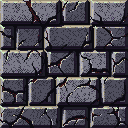
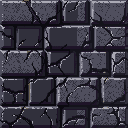
Art check free fixes: one tone for the four stone variants, lifted floor sprites with a pale rim for small dark items, cooler torches and warmer ambient

diff --git a/tools/art/gen_wall_decor.py b/tools/art/gen_wall_decor.py
@@ -21,6 +21,46 @@ VARIANTS = 4
 BAYER = [[0, 8, 2, 10], [12, 4, 14, 6], [3, 11, 1, 9], [15, 7, 13, 5]]
 
 
+ACCENTS = ("blood", "bruise", "curse", "moss", "slime")
+
+
+def lum(c):
+    return 0.2126 * c[0] + 0.7152 * c[1] + 0.0722 * c[2]
+
+
+def match_tone(im, base, keep_accents=0.04):
+    """Give `im` the colour distribution of `base` (stone_1's cold grey): rank every pixel by brightness and hand out the base's
+    colours in the same order, so the block structure stays and the tone, mortar and tint match. A few accent pixels (dried
+    blood, moss) stay as they were, at most `keep_accents` of the tile, so no variant is flat grey."""
+    px = im.load()
+    w, h = im.size
+    import json
+    names = {tuple(int(c["hex"][i:i + 2], 16) for i in (1, 3, 5)): c["name"]
+             for c in json.load(open(Path(__file__).parent / "palette.json"))["colors"]}
+    cells = [(lum(px[x, y][:3]), x, y) for y in range(h) for x in range(w)]
+    accent = []
+    plain = []
+    for item in cells:
+        _, x, y = item
+        name = names.get(px[x, y][:3], "")
+        (accent if name.startswith(ACCENTS) else plain).append(item)
+    # Keep only the strongest-contrast accents, up to the cap; the rest turn grey with the stone.
+    accent.sort(key=lambda t: t[0])
+    cap = int(keep_accents * w * h)
+    kept, melt = accent[:cap], accent[cap:]
+    plain += melt
+    plain.sort()
+    bp = base.load()
+    ramp = sorted((lum(bp[x, y][:3]), bp[x, y][:3]) for y in range(h) for x in range(w))
+    out = Image.new("RGBA", im.size, (0, 0, 0, 255))
+    op = out.load()
+    for i, (_, x, y) in enumerate(plain):
+        op[x, y] = (*ramp[int(i * (len(ramp) - 1) / max(1, len(plain) - 1))][1], 255)
+    for _, x, y in kept:
+        op[x, y] = px[x, y]
+    return out
+
+
 def stone_variants():
     src = PIECES / "walls"
     base = Image.open(src / "stone_1.png").convert("RGBA")
@@ -29,7 +69,7 @@ def stone_variants():
     for n in range(2, VARIANTS + 1):
         piece = src / f"stone_{n}.png"
         if piece.exists():
-            out.append(Image.open(piece).convert("RGBA"))
+            out.append(match_tone(Image.open(piece).convert("RGBA"), base))  # Same cold grey as stone 1.
         else:  # A stand-in: the first stone, turned and shifted.
             im = base.transpose(Image.FLIP_LEFT_RIGHT) if n % 2 == 0 else base
             out.append(shift(im, 40 * n, 24 * n))

diff --git a/tools/art/regrade_items.py b/tools/art/regrade_items.py
@@ -65,6 +65,34 @@ def outlined(img):
     return add_outline(img, PAL["ink"])
 
 
+# Floor sprites of the items that were hard to see on a dark floor (under about 2.3:1 at two tiles): their dark pixels are lifted
+# one step and the lit top-left edge gets a pale rim just inside the outline.
+LIFT_FLOOR = {"mace", "key", "darts", "spellbook", "dried_meat", "withered_apple", "holy_symbol", "war_hammer", "leather_armour"}
+LIFT = {"stone_800": "stone_700", "stone_700": "stone_500", "stone_500": "stone_300", "wood_700": "wood_500", "wood_500": "leather_400",
+        "rust_700": "rust_500", "rust_500": "rust_300", "moss_700": "moss_500", "soil_900": "wood_700", "bruise_700": "bruise_500",
+        "blood_700": "blood_500", "curse_700": "curse_500"}
+
+
+def lift_and_rim(img):
+    px = img.load()
+    w, h = img.size
+    table = {PAL[a]: PAL[b] for a, b in LIFT.items()}
+    ink = PAL["ink"]
+    for y in range(h):
+        for x in range(w):
+            r, g, b, a = px[x, y]
+            if a and (r, g, b) in table:
+                px[x, y] = (*table[(r, g, b)], a)
+    rim = PAL["bone_500"]
+    for y in range(1, h):
+        for x in range(1, w):
+            if px[x, y][3] and px[x, y][:3] != ink:
+                up, left = px[x, y - 1], px[x - 1, y]
+                if (up[3] and up[:3] == ink) or (left[3] and left[:3] == ink):
+                    px[x, y] = (*rim, 255)
+    return img
+
+
 def build():
     written = []
     for path in sorted((ART / "items").glob("*.png")) + [ART / "sprites" / "key.png"]:
@@ -77,7 +105,10 @@ def build():
         img = source(rel)
         if name in REMAPS:
             remap(img, REMAPS[name])
-        outlined(img).save(path)
+        img = outlined(img)
+        if name in LIFT_FLOOR and (path.stem.endswith("_floor") or path.name == "key.png" and path.parent.name == "sprites"):
+            img = lift_and_rim(img)
+        img.save(path)
         written.append(rel)
     for name, count in MONSTERS.items():
         for path in sorted((ART / "monsters" / name).glob("*.png")):

diff --git a/CLAUDE.md b/CLAUDE.md
@@ -155,6 +155,8 @@ So the overlay, HUD and level-complete scenes can be deleted from `main.tscn` wi
 
 **Equipping from the cursor and the floor** (`party.gd` "Equipping" section): armour or a weapon on the cursor, clicked onto a portrait (`party_hud._on_portrait`, after the revive and food branches, so portrait drag and the sheet click are untouched), calls `Party.equip_from_cursor`: armour goes into the one armour slot, a weapon into the main hand (hand 0); a taken slot swaps, the old piece onto the cursor; `ItemDef.cant_use` (class names, e.g. Leather Armour: Mage) refuses with "The mage can't wear that." (the inventory slots apply the same rule through `Party.can_equip`). While one is held each portrait shows `equip_change`: an arrow and number (defence for armour, average damage for a weapon) in slime_300 / rust_300, or greyed with an X when blocked or dead (`_update_equip_hint`; the arrow is drawn in code). Shift-click on floor armour calls `Party.equip_best` (from `Player._stow`): the living hero who can wear it and gains most defence takes it ("Fighter straps on the leather armour."), their old piece goes to a backpack; if nobody gains, or the old piece has nowhere to go, it is stowed as before. Banter event `equip` (Fighter "Mine.", Mage in armour "I can't feel my legs."). There are no helmets, shields or rings (one armour slot only) and there is no test room. Mages not wearing armour is intentional (see `docs/combat_design.md`). Failing checks that predate recent work are listed in `docs/known_issues.md`.
 
+**Free fixes from the second art check:** `gen_wall_decor.match_tone` gives stone variants 2 to 4 stone 1's colour distribution (rank by brightness, hand out stone 1's colours), so all four share one cold grey and the structure stays their own; `regrade_items.lift_and_rim` lifts the dark pixels one palette step and adds a pale `bone_500` rim on the lit top-left edge of the floor sprites in `LIFT_FLOOR` (mace, key, darts, spellbook, dried meat, withered apple, holy symbol, war hammer, leather armour), taking them from about 2:1 to 2.6-3.3:1 at two tiles; the torches and the cold ambient in `main.tscn` and `dungeon_builder.gd` were cooled again (a lit corridor's red/blue went 1.65 to 1.40). Re-run both generators after changing stone pieces or item art.
+
 **Hand buttons are 40x40 and quick slots 36x36** (the party panel's height is full: the cooldown bar is gone, shown as a clock wipe over each hand button, `handslot_sweep.png`; row gap 1, margins 3, mana bar 3 px). The five weapon `*_hud` icons are native 32x32 (`tools/art/pieces/items32/`, listed in `NATIVE32` in `regrade_items.py` so the outline pass skips them); the other items' icons are still 24x24 and sit centred.
 
 **Party panel pixel density** (the portraits are 1 art pixel per screen pixel, so everything on the panel is drawn that way; see `docs/art_style.md`): `gen_ui.bevel_frame` draws `quickslot.png`/`quickslot_empty.png` (28x28) and `handslot.png` (32x32, shown behind each hand button by `party_hud._make_hand` with `show_behind_parent` so child 0 stays the stack count), `name_scroll_native` the 16x16 scroll, `digit_sheet_native` the stack digits (same 100x14 sheet), `hand_empty` the faint sword in an empty hand; names get a 1 px ink font shadow in `_label`. The 2x-block art left: frame, arrows, sweep, inventory.
